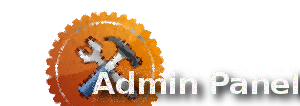
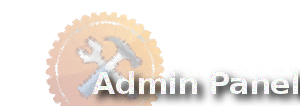
<b> removed, long rows split into two

Changed region(s): [[0.15, 0.1132, 0.57, 1.0]]

diff --git a/css/k_coffee.css b/css/k_coffee.css
@@ -17,6 +17,7 @@ body {
 }
 a {
   text-decoration:none;
+  color:brown;  
 
   
 }
@@ -24,6 +25,19 @@ a:visited {
   color:brown;  
   text-decoration:none;
 }
+#content-area form table tbody tr td input {
+  font-weight:normal;
+}
+#content-area form table tbody tr td a.login_forgot_link {
+  color:#f123f3;
+  font-size:16px;
+}
+#content-area form table tbody tr td.errormessage_login {
+  color:red;
+  font-style:normal;
+  font-weight:normal;
+}
+
 #top-bar {
   background-image:url('../images/k_coffee/top_bar.png');  
   width:800px;

diff --git a/layouts/default.html b/layouts/default.html
@@ -15,7 +15,7 @@
     <tr>
       <td style="height:106px;  text-align: right; color:#57531C; ">
       <IMG src="images/kaffakarma/logo.png" alt="Kaffakarma" align="left" border="0"> 
-      <IMG src="images/kaffakarma/admin.jpg" alt="Kaffakarma" align="right" border="0"></td>
+      <IMG src="images/kaffakarma/admin.png" alt="Kaffakarma" align="right" border="0"></td>
     </tr>
     <tr>
       <td valign="bottom"  style="font-size:15px; text-align: right; color:#603813; ">

diff --git a/plugins/user/signup/form/signup.php b/plugins/user/signup/form/signup.php
@@ -21,7 +21,7 @@
                 </tr>
                 <tr>
                     <td valign="bottom" align="right" class="passwd_caption" width="50%">
-                        <b><?php echo $CAP_username ?></b>
+                        <?php echo $CAP_username ?>
                     </td>
                     <td valign="top" align="left"  width="50%">
                     <input class="passwd_box"  type="text" name="txtusername" id="txtusername" value="<?php if(isset($_POST['txtusername'])){echo $_POST['txtusername'];}?>" >
@@ -30,7 +30,7 @@
                 <tr><td></td><td><div id="results"></div></td></tr>
                  <tr>
                     <td valign="bottom" align="right" class="passwd_caption"  width="50%" >
-                        <b><?php echo $CAP_password ?></b>
+                        <?php echo $CAP_password ?>
                     </td>
                     <td valign="top" align="left"  width="50%">
                     <input class="passwd_box"  type="password" name="txtpasswd" id="txtpasswd" value="<?php if(isset($_POST['txtpasswd'])){echo $_POST['txtpasswd'];}?>" ></td>
@@ -38,7 +38,7 @@
 
                 <tr>
                     <td valign="bottom" align="right" class="passwd_caption"  width="50%" >
-                        <b><?php echo $CAP_repassword ?></b>
+                        <?php echo $CAP_repassword ?>
                     </td>
                     <td valign="top" align="left"  width="50%">
                     <input class="passwd_box"  type="password" name="txtrepasswd" id="txtrepasswd" value="<?php if(isset($_POST['txtrepasswd'])){echo $_POST['txtrepasswd'];}?>" ></td>
@@ -51,7 +51,7 @@
 
                 <tr>
                     <td valign="bottom" align="right" class="passwd_caption"  width="50%">
-                        <b><?php echo $CAP_firstname ?></b>
+                        <?php echo $CAP_firstname ?>
                     </td>
                     <td valign="top" align="left"  width="50%">
                     <input class="passwd_box"  type="text" name="txtfirstname" id="txtfirstname" value="<?php if(isset($_POST['txtfirstname'])){echo $_POST['txtfirstname'];}?>" ></td>
@@ -59,7 +59,7 @@
 
                <tr>
                     <td valign="bottom" align="right" class="passwd_caption"  width="50%" >
-                        <b><?php echo $CAP_lastname ?></b>
+                        <?php echo $CAP_lastname ?>
                     </td>
                     <td valign="top" align="left"  width="50%">
                     <input class="passwd_box"  type="text" name="txtlastname" id="txtlastname" value="<?php if(isset($_POST['txtlastname'])){echo $_POST['txtlastname'];}?>" >
@@ -68,7 +68,7 @@
 
                 <tr>
                     <td valign="bottom" align="right" class="passwd_caption"  width="50%" >
-                        <b><?php echo $CAP_address ?></b>
+                        <?php echo $CAP_address ?>
                     </td>
                     <td valign="top" align="left"  width="50%">
                     <input class="passwd_box"  type="text" name="txtaddress" id="txtaddress" value="<?php if(isset($_POST['txtaddress'])){echo $_POST['txtaddress'];}?>" >
@@ -77,7 +77,7 @@
 
                  <tr>
                     <td valign="bottom" align="right" class="passwd_caption"  width="50%" >
-                        <b><?php echo $CAP_city ?></b>
+                        <?php echo $CAP_city ?>
                     </td>
                     <td valign="top" align="left"  width="50%">
                     <input class="passwd_box"  type="text" name="txtcity" id="txtcity" value="<?php if(isset($_POST['txtcity'])){echo $_POST['txtcity'];}?>" >
@@ -86,7 +86,7 @@
 
                 <tr>
                     <td valign="bottom" align="right" class="passwd_caption"  width="50%" >
-                        <b><?php echo $CAP_country ?></b>
+                        <?php echo $CAP_country ?>
                     </td>
                     <td valign="top" align="left"  width="50%">
                     <?php if(isset($_POST['lstcountry'])){ $value = $_POST['lstcountry']; } else{ $value = -1;}
@@ -94,15 +94,19 @@
                   ?>
                   </td>
                 </tr>
-                <tr colspan="2">
-                    <td  valign="bottom" align="right" class="passwd_caption"  width="50%">
-                        <b><?php echo $CAP_image ?></b>
-<input type="file" name="fleimage" id="fleimage" size="30" />
+                <tr>
+                    <td  valign="bottom" align="right" class="passwd_caption" >
+                          <?php echo $CAP_image ?><br />
+                          <input type="file" name="fleimage" id="fleimage" size="30" />
+                          
                     </td>
                 </tr>
+
+
+
                 <tr>
                     <td  width="50%" align="right">
-                        <b><?php echo $CAP_sec_que ?></b>
+                        <?php echo $CAP_sec_que ?>
                     </td>
                     <td  width="50%">
                          <?php if(isset($_POST['lstsec_que'])){ $value = $_POST['lstsec_que']; } else{ $value = -1;}
@@ -111,14 +115,14 @@
                 </tr>
                 <tr>
                     <td  width="50%" align="right">
-                        <b><?php echo $CAP_sec_ans ?></b>
+                        <?php echo $CAP_sec_ans ?>
                     </td>
                     <td  width="50%">
                         <input class="passwd_box"  type="text" name="txtsec_ans" id="txtsec_ans" value="<?php if(isset($_POST['txtsec_ans'])){echo $_POST['txtsec_ans'];}?>" />
                     </td>
                 </tr>
     <tr>
-        <td  width="50%" align="right"><b><?php echo $MSG_enter_security_code?></b></td>
+        <td  width="50%" align="right"><?php echo $MSG_enter_security_code?></td>
         <td  width="50%">
              <input id="security_code" name="security_code" type="text" />
         </td>
